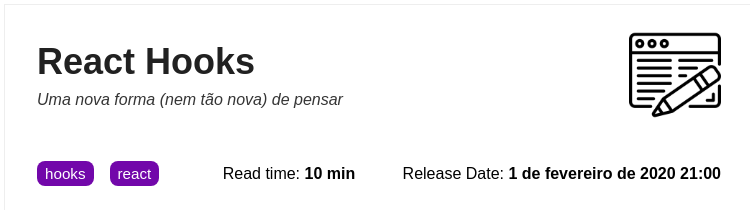
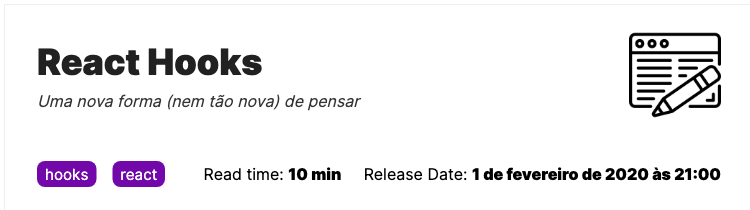
feat: blog layout

diff --git a/pages/index.tsx b/pages/index.tsx
@@ -1,10 +1,11 @@
 import { InferGetStaticPropsType } from "next";
 import Link from "next/link";
 import { useRouter } from "next/router";
-import { useCallback, useMemo, useRef, useState } from "react";
+import React, { useCallback, useMemo, useState } from "react";
 import { Format, toPost } from "../lib/format";
 import { getAllMdFiles } from "../lib/markdown";
 import { allPostInfo, getAllPosts, getPost, Post } from "../lib/posts";
+import { RxBookmark } from "react-icons/rx";
 
 export const getStaticProps = async () => {
   const posts = getAllMdFiles<Post>(
@@ -12,62 +13,51 @@ export const getStaticProps = async () => {
     getAllPosts,
     getPost
   );
-  const subjects = [...new Set(posts.flatMap((post) => post.subjects))];
-  return { props: { posts, subjects } };
+  return {
+    props: {
+      posts,
+      subjects: [...new Set(posts.flatMap((post) => post.subjects))],
+    },
+  };
 };
 
-const Subjects = ({
-  subjects,
-  onClick,
-  search,
-  root = false,
-}: {
-  root?: boolean;
-  subjects?: string[];
-  search: string;
-  onClick: (str: string) => void;
-}) => {
-  const id = useRef(() => Math.random().toString(36).substring(2, 16)).current;
+type Props = InferGetStaticPropsType<typeof getStaticProps>;
 
-  const list = useMemo(
-    () => [...(subjects ?? [])].sort((a, b) => a.localeCompare(b)),
-    [subjects]
-  );
+const SectionTitle = ({ title }: { title: string | React.ReactElement }) => (
+  <header className="w-full min-w-full mb-6">
+    <h2 className="text-4xl font-semibold">{title}</h2>
+  </header>
+);
 
+const StickyPosts = ({ posts }: Props) => {
   return (
-    <ul className="inline-flex gap-4 mt-2 text-md flex-wrap">
-      {list.map((y) => (
-        <li key={`${y}-${id}`}>
-          <button
-            onClick={() => onClick(y)}
-            className={`${
-              y === search
-                ? "bg-primary-dark link:bg-primary-light px-2 text-white rounded"
-                : "underline underline-offset-4 decoration-primary-dark link:decoration-2"
-            } duration-300 transition-colors`}
-          >
-            {y}
-          </button>
-        </li>
-      ))}
-      {root && (
-        <li>
-          <button
-            onClick={() => onClick("")}
-            className="text-orange-600 link:text-orange-500 duration-500 transition-colors"
-          >
-            Clear
-          </button>
-        </li>
-      )}
-    </ul>
+    <aside className="lg:w-1/4 w-full order-0 sm:order-1">
+      <div className="sticky top-20 z-50 isolate">
+        <SectionTitle title="Recentes" />
+        <section className="w-full gap-y-8 flex flex-wrap">
+          {posts.slice(0, 3).map((x) => (
+            <article key={x.slug} className="flex flex-col w-full">
+              <header className="transition-colors duration-500 cursor-pointer hover:underline">
+                <Link
+                  href={toPost(x.slug)}
+                  className="flex gap-2 items-baseline"
+                >
+                  <RxBookmark
+                    aria-hidden="true"
+                    className="text-primary-link mt-1"
+                  />
+                  <h3 className="leading-relaxed">{x.title}</h3>
+                </Link>
+              </header>
+            </article>
+          ))}
+        </section>
+      </div>
+    </aside>
   );
 };
 
-export default function IndexPage({
-  posts,
-  subjects,
-}: InferGetStaticPropsType<typeof getStaticProps>) {
+const GroupedPosts = ({ posts }: Props) => {
   const [search, setSearch] = useState("");
   const { push } = useRouter();
 
@@ -96,31 +86,34 @@ export default function IndexPage({
   );
 
   return (
-    <div className="w-full min-w-full">
-      <header>
-        <p className="mb-1 font-semibold">Busque por assuntos</p>
-        <div className="flex flex-row flex-wrap gap-2 mb-8">
-          <Subjects root subjects={subjects} search={search} onClick={change} />
-        </div>
-      </header>
-      <section className="w-full grid grid-cols-1 md:grid-cols-2 gap-x-2 gap-y-12">
+    <div className="w-full w-full lg:w-3/4">
+      <SectionTitle title="Todos os posts" />
+      <section className="w-full gap-y-12">
         {viewedPosts.map((x) => (
-          <article key={x.slug} className="flex flex-col w-full">
-            <header className="text-primary-link transition-colors duration-500 cursor-pointer hover:underline">
+          <article key={x.slug} className="flex flex-col w-full mb-8">
+            <header className="transition-colors duration-500 cursor-pointer hover:underline">
               <Link href={toPost(x.slug)}>
-                <h3 className="text-2xl font-bold">{x.title}</h3>
+                <h3 className="text-2xl">{x.title}</h3>
               </Link>
             </header>
             <p className="text-sm opacity-50 my-2">
               {Format.date(x.date)} - {x.readingTime} min read
             </p>
-            <p className="text-md leading-relaxed dark:text-slate-300">
+            <p className="text-sm leading-relaxed dark:text-slate-300">
               {x.description}
             </p>
-            <Subjects search={search} onClick={change} subjects={x.subjects} />
           </article>
         ))}
       </section>
+    </div>
+  );
+};
+
+export default function IndexPage({ posts, subjects }: Props) {
+  return (
+    <div className="w-full min-w-full flex gap-x-8">
+      <GroupedPosts posts={posts} subjects={subjects} />
+      <StickyPosts posts={posts} subjects={[]} />
     </div>
   );
 }

diff --git a/styles/globals.css b/styles/globals.css
@@ -3,41 +3,33 @@
 @import "tailwindcss/utilities";
 
 :root {
-  --fonts: "Inter", -apple-system, BlinkMacSystemFont, Roboto, Cantarell,
+    --fonts: "Inter", -apple-system, BlinkMacSystemFont, Roboto, Cantarell,
     Fira Sans, Droid Sans, sans-serif;
 }
 
 * {
-  box-sizing: border-box;
-  transition: background-color 350ms ease-in;
+    box-sizing: border-box;
+    transition: background-color 350ms ease-in;
 }
 
 html {
-  scroll-behavior: smooth;
-  height: 100%; /*Fix transition bug*/
+    scroll-behavior: smooth;
+    height: 100%; /*Fix transition bug*/
 }
 
 html,
 body {
-  @apply p-0 m-0 bg-base text-on-base w-full;
-  font-family: var(--fonts);
+    @apply p-0 m-0 bg-base text-on-base w-full;
+    font-family: var(--fonts);
 }
 
 #__next {
-  width: 100%;
-  height: 100%;
-  margin: auto;
+    width: 100%;
+    height: 100%;
+    margin: auto;
 }
 
 a {
-  color: inherit;
-  text-decoration: none;
-}
-
-.input-group > input:focus ~ span {
-  color: var(--primary-DEFAULT);
-}
-
-.w-fit {
-  width: fit-content;
+    color: inherit;
+    text-decoration: none;
 }

diff --git a/components/mdx.tsx b/components/mdx.tsx
@@ -1,7 +1,7 @@
 import { OmitKeys } from "lib/utility.types";
 import Link from "next/link";
 import React, { Fragment, useEffect, useRef, useState } from "react";
-import { RiLink } from "react-icons/ri";
+import { RxFrame } from "react-icons/rx";
 import { PrismAsyncLight as Syntax } from "react-syntax-highlighter";
 import { Format } from "../lib/format";
 import { Themes, useTheme } from "./theme.config";
@@ -52,8 +52,8 @@ const HX = ({
   return (
     <Render {...props} id={props.id ?? text} data-tag={Render}>
       <Anchor className="font-extrabold no-underline group" href={`#${text}`}>
-        <button className="inline-block transition-opacity duration-300 opacity-0 group-hover:opacity-100 rotate-45 mr-2 text-lg">
-          <RiLink aria-hidden="true" className="rotate-45" />
+        <button className="inline-block duration-300 mr-2 text-lg opacity-30 transition-opacity active:opacity-100 group-hover:opacity-100">
+          <RxFrame aria-hidden="true" className="mb-0.5" />
         </button>
         <span ref={span}>{props.children}</span>
       </Anchor>

diff --git a/components/navbar.tsx b/components/navbar.tsx
@@ -7,13 +7,11 @@ type Props = {
 };
 export const Navbar = ({ theme, toggle }: Props) => {
   return (
-    <header className="w-full flex mb-8 text-lg bg-zinc-900 text-white sticky top-0 z-50 isolate">
+    <header className="w-full flex mb-8 text-lg bg-on-base dark:bg-black/20 backdrop-blur-xl text-white sticky top-0 z-50 isolate">
       <nav className="w-full py-3 flex flex-row justify-between items-center container mx-auto md:max-w-6xl md:px-6 px-4">
-        <Link href="/">
-          <span className="flex items-center gap-x-2">
-            <SiReact className="inline-block" />
-            Garcez Blog
-          </span>
+        <Link className="flex items-center gap-x-2" href="/">
+          <SiReact className="inline-block" />
+          Blog do Garcez
         </Link>
         <span className="flex gap-x-4 items-center text-sm">
           <Link

diff --git a/pages/_app.tsx b/pages/_app.tsx
@@ -75,7 +75,7 @@ function Root({
         <meta name="theme-color" content={themeColor} />
       </Head>
       <Navbar toggle={toggle} theme={theme} />
-      <div className="w-full container mx-auto md:px-6 px-4 block md:max-w-6xl">
+      <div className="w-full container mx-auto md:px-6 px-4 block md:max-w-5xl">
         <Component {...(pageProps as any)} />
       </div>
       <footer className="container mx-auto md:px-6 px-4 block md:max-w-6xl py-8">
@@ -90,7 +90,6 @@ function Root({
             className="cursor-pointer transition-colors duration-500 hover:text-twitter"
           >
             <span className="sr-only">My Twitter</span>
-
             <VscTwitter />
           </a>
           <a

diff --git a/pages/post/[slug].tsx b/pages/post/[slug].tsx
@@ -122,7 +122,7 @@ export default function PostPage({ post, adjacentPosts, mdx }: Props) {
         />
       </Head>
       <header className="mb-8 w-full container flex flex-col flex-wrap">
-        <h1 className="mt-4 mb-2 font-bold whitespace-pre-wrap w-full text-4xl md:text-5xl flex flex-wrap">
+        <h1 className="mt-4 mb-2 font-semibold whitespace-pre-wrap w-full text-4xl md:text-5xl flex flex-wrap">
           {post.title}
         </h1>
         <p className="mt-4 mb-2 text-sm">{post.description}</p>

diff --git a/public/markdown.css b/public/markdown.css
@@ -70,7 +70,8 @@
 .markdown .language-unknown,
 .markdown pre,
 .markdown code {
-    color: var(--info-DEFAULT);
+    color: var(--main);
+    font-weight: 600;
     padding: 0;
     margin: 0;
 }
